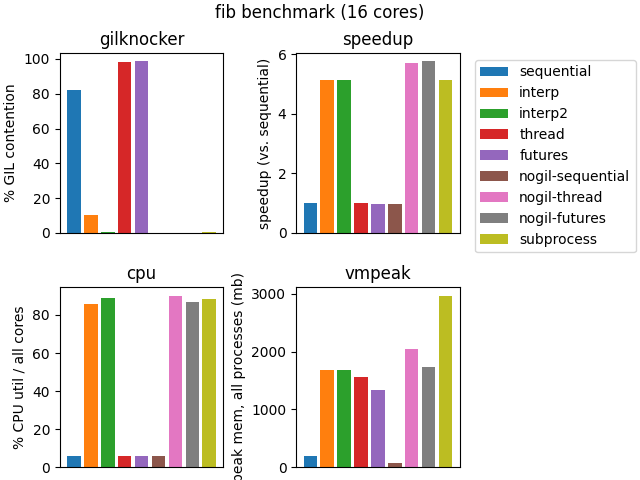
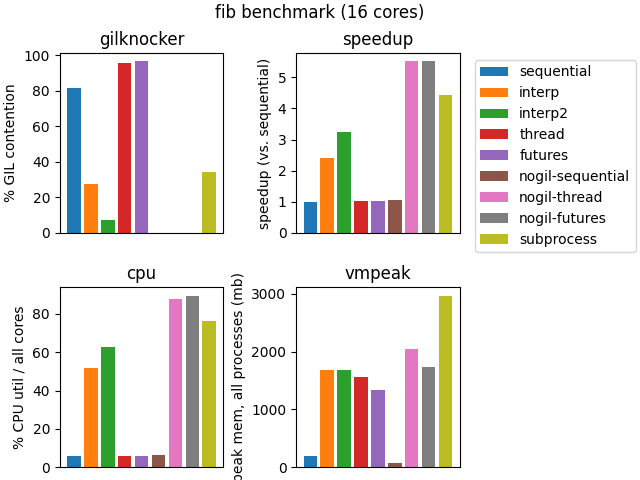
Add fib2 benchmark and commentary

diff --git a/fib2.py b/fib2.py
@@ -1,0 +1,36 @@
+class Fibonacci:
+    def __init__(self, x):
+        self.x = x
+
+    def calculate(self, n):
+        # This line doesn't actually matter for the calculation, but this is what
+        # causes the nogil threaded performance to drop precipitously.
+        #
+        # While this may be silly for computing fibonacci, it is pretty
+        # idiomatic for an instance to have some state that is updated on a
+        # method call (we see this in the raytrace benchmark, for example).
+        # Note there is no actual sharing of Fibonacci instances between
+        # threads here. This is a thread having lock contention with itself,
+        # apparently.
+        #
+        # Linux perf reports a spike of about 10% of runtime in
+        # _PyObject_GetInstanceAttribute when this line is present, vs 0.00% without.
+        self.x += 1
+
+        if n < 2:
+            return 1
+        return self.calculate(n - 1) + self.calculate(n - 2)
+
+
+def bench(n):
+    f = Fibonacci(1)
+    return f.calculate(n)
+
+
+def get_data():
+    return [28] * 64
+
+
+def assert_result(result):
+    assert len(result) == 64
+    assert all(x == 514229 for x in result)

diff --git a/pool.py b/pool.py
@@ -17,13 +17,13 @@ from multiprocessing import Pool
 
 gilknocker = None
 try:
-    if "nogil" not in sys.version:
+    if not getattr(sys.flags, "nogil", False):
         import gilknocker
 except ImportError:
     pass
 
 
-BENCHMARKS = ["nbody", "nbody_no_share", "data_pass", "raytrace", "fib"]
+BENCHMARKS = ["nbody", "nbody_no_share", "data_pass", "raytrace", "fib", "fib2"]
 
 
 def get_multiprocessing_runner(pool_type):

diff --git a/plot.py b/plot.py
@@ -13,7 +13,7 @@ fig, axs = plt.subplots(2, 2, layout="constrained")
 def rotate_data(data, metric, f):
     output = {}
     for mode, dataset in data.items():
-        output[mode] = f(dataset[metric])
+        output[mode] = f(dataset.get(metric, 0))
     return output
 
 

diff --git a/fib.py b/fib.py
@@ -5,9 +5,9 @@ def bench(n):
 
 
 def get_data():
-    return [34] * 64
+    return [28] * 64
 
 
 def assert_result(result):
     assert len(result) == 64
-    assert all(x == 9227465 for x in result)
+    assert all(x == 514229 for x in result)

diff --git a/README.md b/README.md
@@ -148,7 +148,7 @@ Uses `concurrent.futures.ThreadPoolExecutor` on the `nogil` branch of CPython.
 
 ## A note about nogil
 
-The `nogil` mode runs on the `colesbury/nogil-3.12` fork of CPython (hash 4526c07).
+The `nogil` mode runs on the `colesbury/nogil-3.12/nogil-3.12-bugfix` fork of CPython (hash ef5bac94).
 That commit segfaults when running the nbody benchmark, so I disabled specialization to get it to run.
 To account for this variable, I also disabled specialization on the upstream CPython used for the non-nogil benchmarks.
 
@@ -159,6 +159,43 @@ The `nogil` results are interesting.  For the `fib` benchmark, which is the same
 ![Results](nbody_no_share.png)
 
 The `raytrace` benchmark hits a similar pathological case with `nogil`.  It does have some effectively immutable constants in global state.
+
+One possible answer as to the cause is in the `fib2` benchmark.  It is a modification of the nogil's `fib` benchmark to use an instance that updates the data member on each call.
+
+The original `fib` benchmark:
+
+```python
+def bench(n):
+    if n < 2:
+        return 1
+    return bench(n - 1) + bench(n - 2)
+```
+
+The `fib2` benchmark:
+
+```python
+class Fibonacci:
+    def __init__(self, x):
+        self.x = x
+
+    def calculate(self, n):
+        # This line doesn't actually matter for the calculation, but this is what
+        # causes the nogil threaded performance to drop precipitously.
+        self.x += 1
+
+        if n < 2:
+            return 1
+        return self.calculate(n - 1) + self.calculate(n - 2)
+
+def bench(n):
+    f = Fibonacci(1)
+    return f.calculate(n)
+```
+
+You see in this `fib2` results that nogil with threads gets really stuck by updating a member on an instance.
+This instance, importantly, is not shared between threads.
+
+![Results](fib2.png)
 
 For the `data_pass` benchmark, you can see the advantage over approaches that are forced to pickle/serialize (subintpreters and subprocesses) and those that don't.
 
